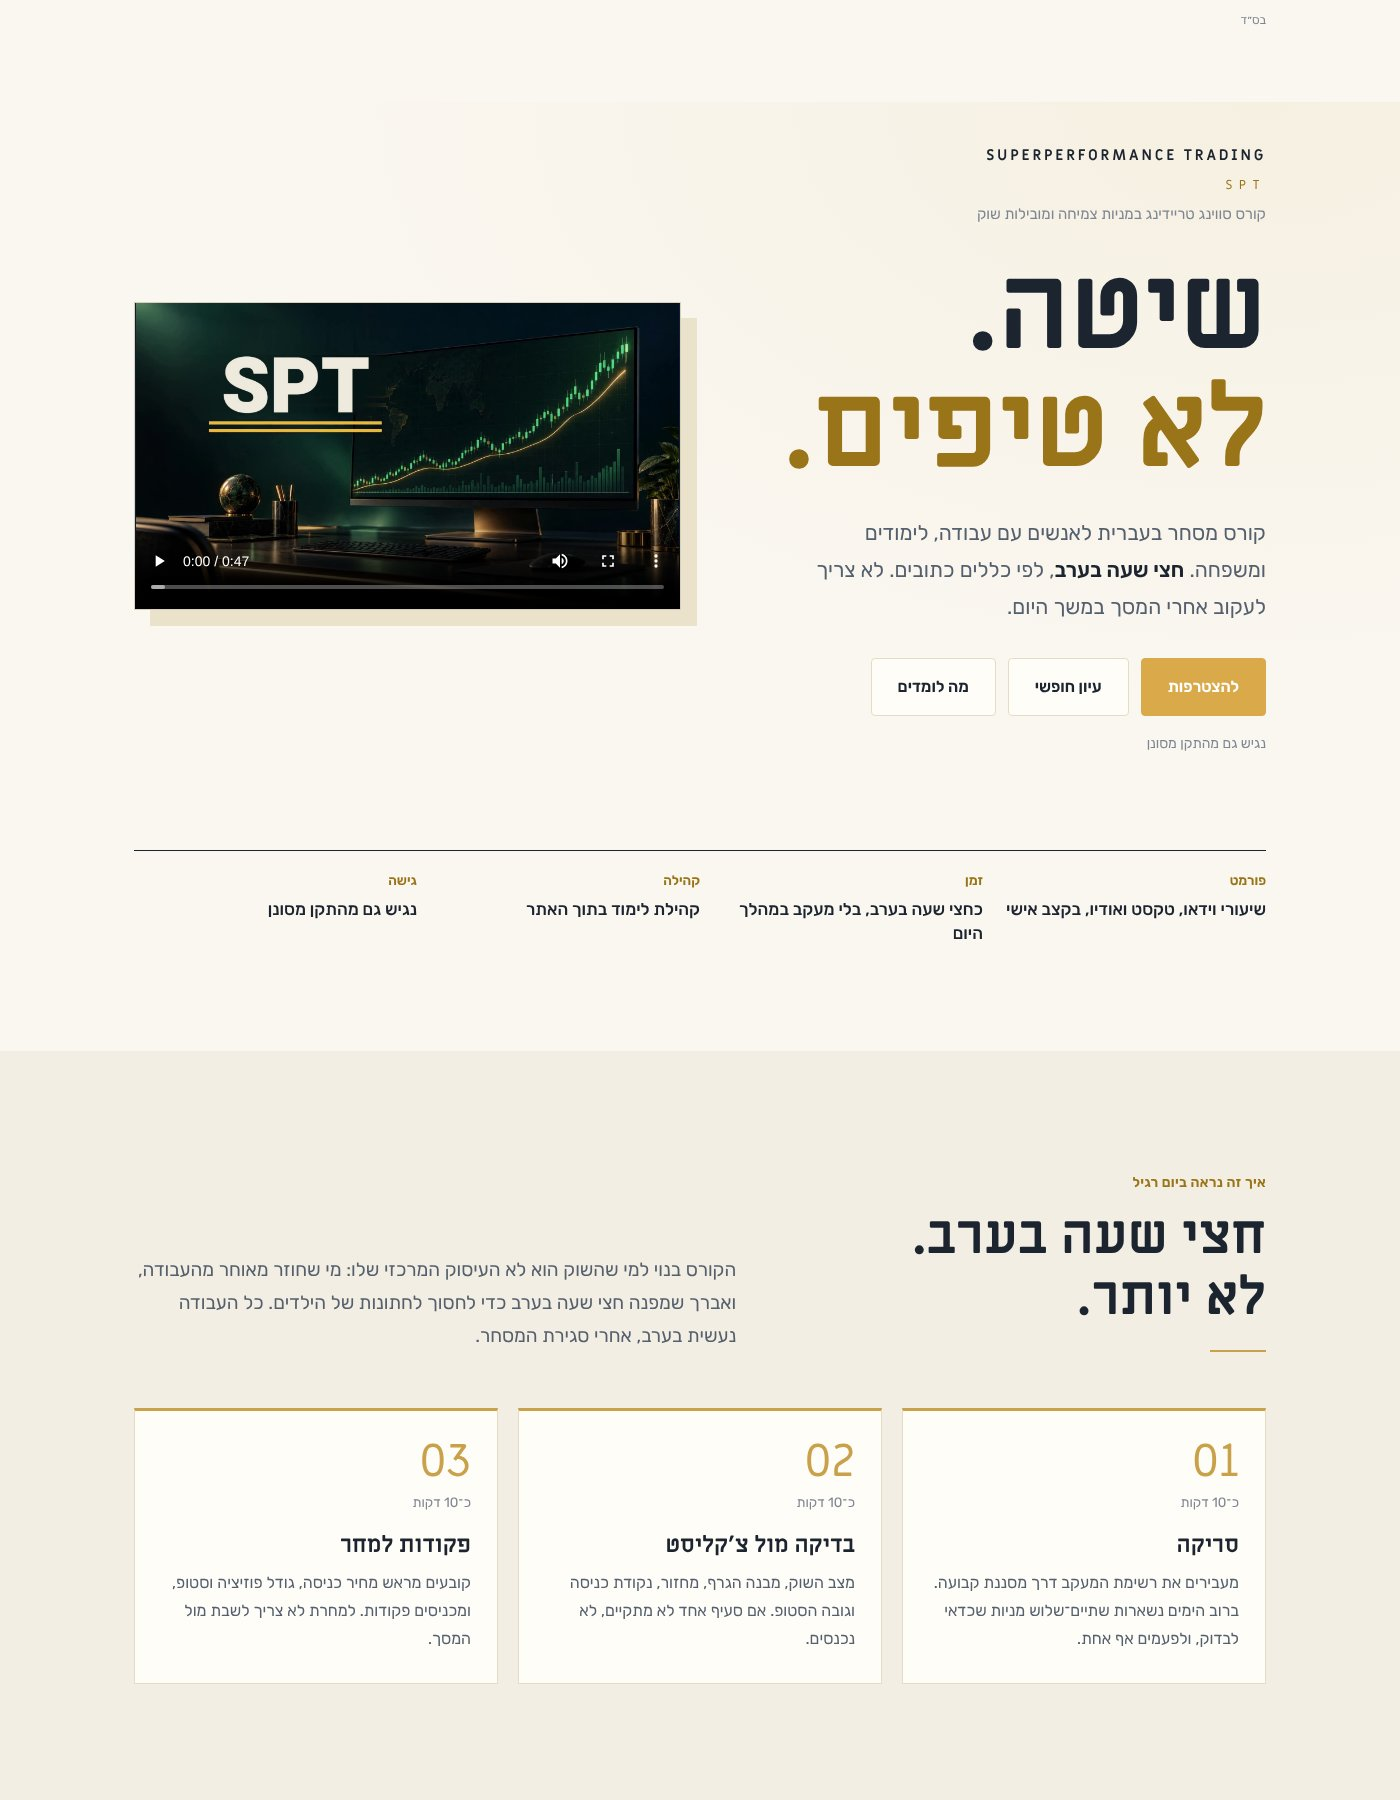
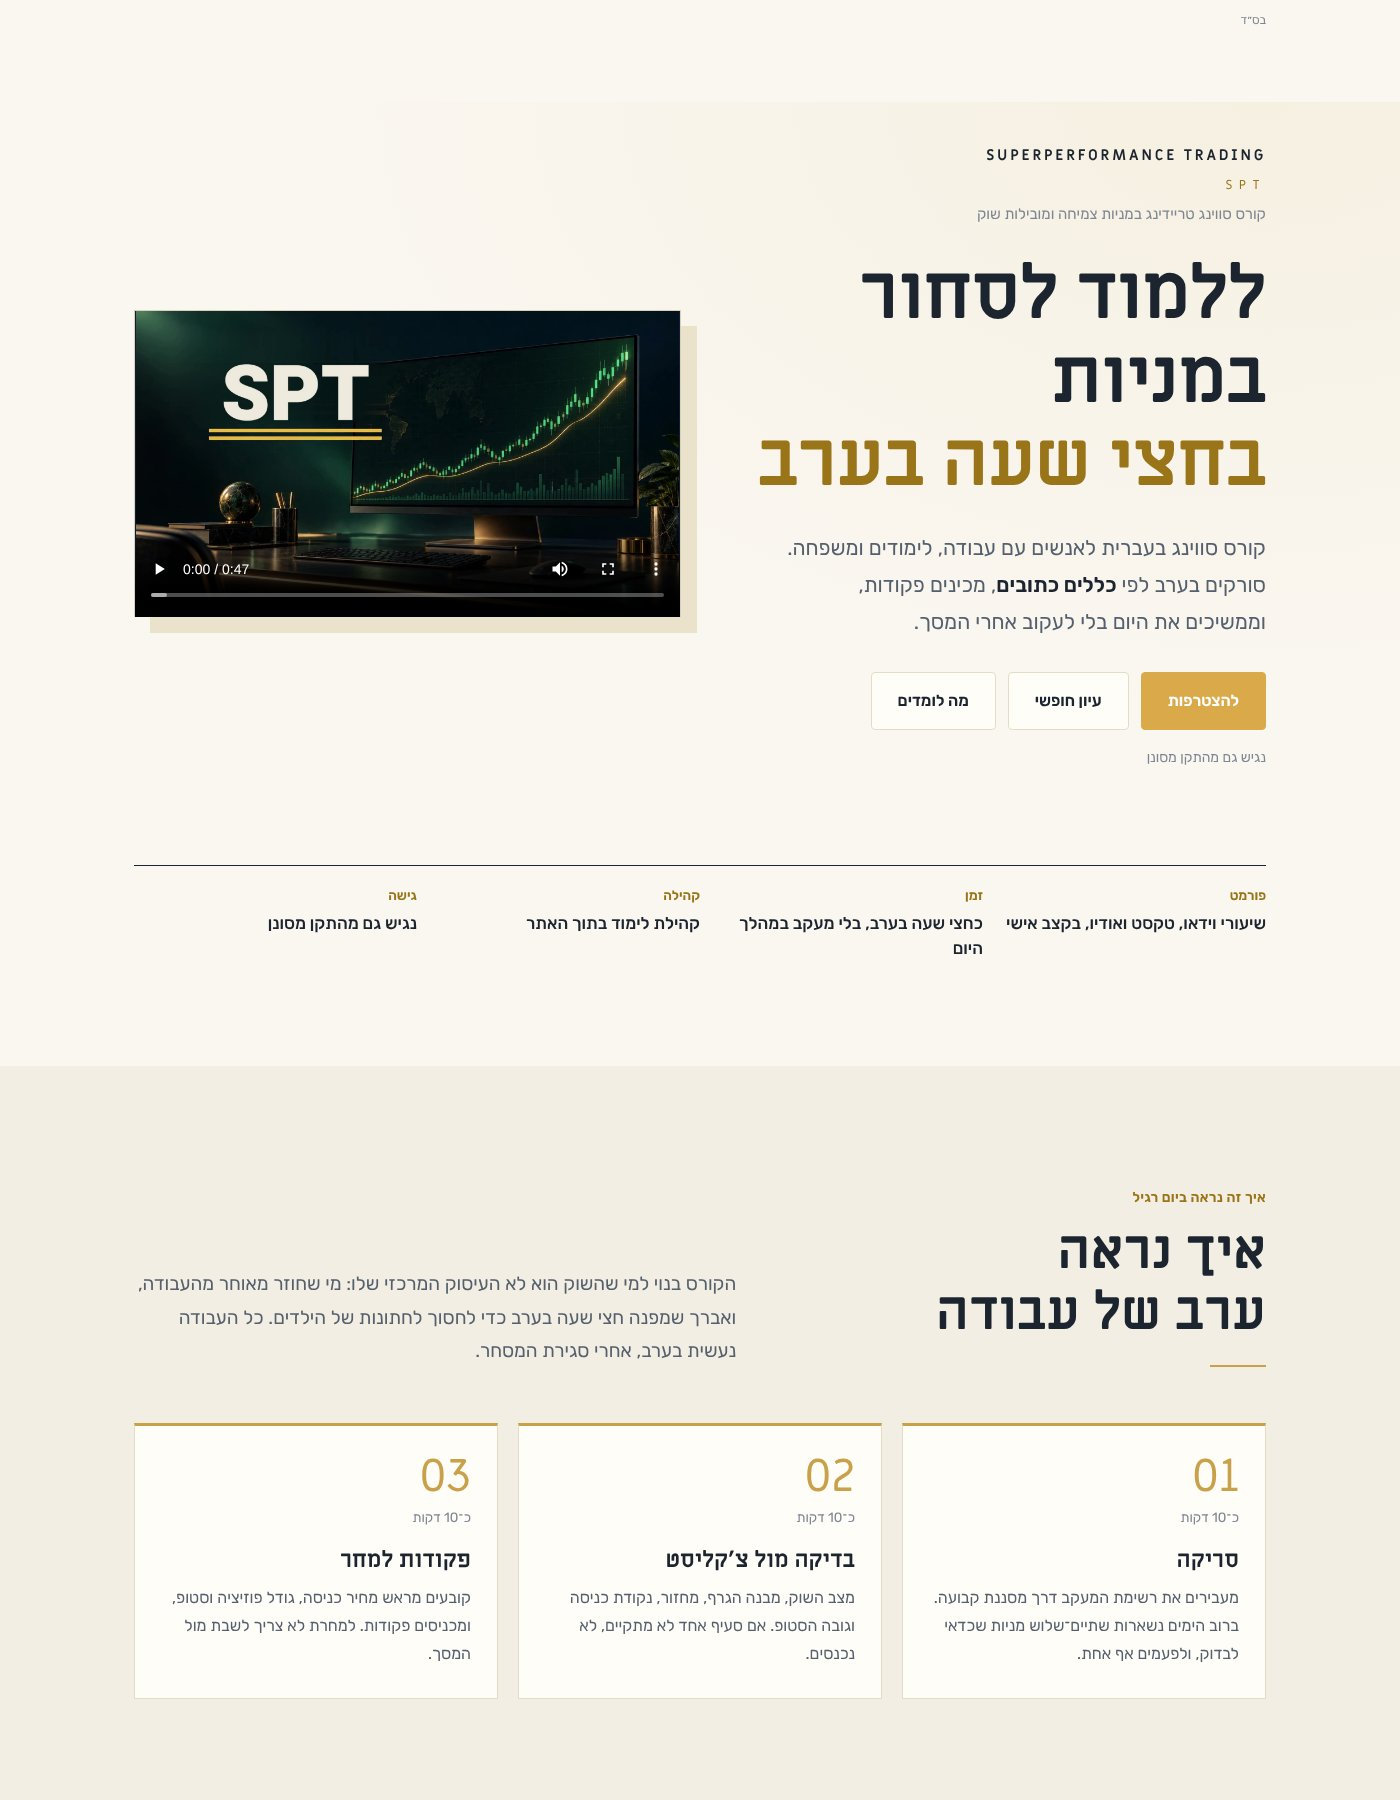
SPT redesign: replace slogan-style headlines with plain wording
Claude-Session: https://claude.ai/code/session_017BqqKpycroxVnNZMTej3bC

diff --git a/spt-redesign/index.html b/spt-redesign/index.html
@@ -83,7 +83,7 @@ section{padding-block:clamp(72px,10vw,120px)}
 .brand .latin{font-size:15px;color:var(--ink);font-weight:700}
 .brand .spt{display:inline-block;font-family:var(--display);font-size:13px;letter-spacing:.5em;color:var(--gold-text);margin-top:6px}
 .brand .sub{font-size:15px;color:var(--ink-3);margin-top:2px}
-.hero h1{font-size:clamp(58px,8.6vw,118px);line-height:1;margin:0 0 26px;letter-spacing:-.01em}
+.hero h1{font-size:clamp(42px,5.6vw,76px);line-height:1.1;margin:0 0 26px;letter-spacing:-.01em}
 .hero h1 em{font-style:normal;color:var(--gold-text)}
 .lede{font-size:clamp(19px,1.8vw,21px);color:var(--ink-2);max-width:36ch;margin-bottom:32px}
 .lede strong{color:var(--ink);font-weight:600}
@@ -297,8 +297,8 @@ footer .legal{padding-top:24px;font-size:13px;color:#8F98A3;max-width:90ch}
           <span class="spt">SPT</span>
           <div class="sub">קורס סווינג טריידינג במניות צמיחה ומובילות שוק</div>
         </div>
-        <h1>שיטה.<br><em>לא טיפים.</em></h1>
-        <p class="lede">קורס מסחר בעברית לאנשים עם עבודה, לימודים ומשפחה. <strong>חצי שעה בערב</strong>, לפי כללים כתובים. לא צריך לעקוב אחרי המסך במשך היום.</p>
+        <h1>ללמוד לסחור במניות<br><em>בחצי שעה בערב</em></h1>
+        <p class="lede">קורס סווינג בעברית לאנשים עם עבודה, לימודים ומשפחה. סורקים בערב לפי <strong>כללים כתובים</strong>, מכינים פקודות, וממשיכים את היום בלי לעקוב אחרי המסך.</p>
         <div class="cta-row">
           <a class="btn btn-gold" href="https://spt-trading.com/subscribe">להצטרפות</a>
           <a class="btn" href="https://spt-trading.com/lessons/32">עיון חופשי</a>
@@ -328,7 +328,7 @@ footer .legal{padding-top:24px;font-size:13px;color:#8F98A3;max-width:90ch}
     <div class="sec-head">
       <div>
         <div class="eyebrow">איך זה נראה ביום רגיל</div>
-        <h2>חצי שעה בערב.<br>לא יותר.</h2>
+        <h2>איך נראה<br>ערב של עבודה</h2>
         <div class="rule"></div>
       </div>
       <p>הקורס בנוי למי שהשוק הוא לא העיסוק המרכזי שלו: מי שחוזר מאוחר מהעבודה, ואברך שמפנה חצי שעה בערב כדי לחסוך לחתונות של הילדים. כל העבודה נעשית בערב, אחרי סגירת המסחר.</p>
@@ -358,8 +358,8 @@ footer .legal{padding-top:24px;font-size:13px;color:#8F98A3;max-width:90ch}
 <section id="community">
   <div class="wrap about">
     <div>
-      <div class="eyebrow">קהילת המסחר</div>
-      <h2 style="margin-top:12px">ולא לבד.</h2>
+      <div class="eyebrow">אחרי הקורס</div>
+      <h2 style="margin-top:12px">קהילת המסחר</h2>
       <div class="rule"></div>
     </div>
     <div class="body">
@@ -376,7 +376,7 @@ footer .legal{padding-top:24px;font-size:13px;color:#8F98A3;max-width:90ch}
     <div class="sec-head">
       <div>
         <div class="eyebrow">מאיפה השיטה מגיעה</div>
-        <h2>לא המצאנו אותה.</h2>
+        <h2>מאה שנה של<br>אותם כללים</h2>
         <div class="rule"></div>
       </div>
       <p>במשך מאה שנה, סוחרים בתקופות ובשווקים שונים הגיעו לאותם כללים, בלי שהכירו זה את זה. הקורס מסדר את העבודה שלהם לפי סדר, מהבסיס ועד הביצוע.</p>
@@ -478,7 +478,7 @@ footer .legal{padding-top:24px;font-size:13px;color:#8F98A3;max-width:90ch}
       <div class="stage">
         <div class="n">4</div>
         <div><h3>משמעת ומיינדסט</h3><span class="q">איך לא לקלקל הכל?</span></div>
-        <div class="body"><p>גודל פוזיציה, סטופ לוס, מה עושים אחרי הפסד ואיך לא לרדוף אחרי מניה שכבר ברחה. הרבה קורסים מדלגים על השלב הזה, ובלעדיו שלושת הקודמים לא מחזיקים. סבלנות היא כלי מסחר, לא תכונת אופי.</p></div>
+        <div class="body"><p>גודל פוזיציה, סטופ לוס, מה עושים אחרי הפסד ואיך לא לרדוף אחרי מניה שכבר ברחה. הרבה קורסים מדלגים על השלב הזה, ובלעדיו שלושת הקודמים לא מחזיקים. ולמה סבלנות היא חלק מהשיטה כמו כל כלל אחר.</p></div>
       </div>
     </div>
   </div>
@@ -596,7 +596,7 @@ footer .legal{padding-top:24px;font-size:13px;color:#8F98A3;max-width:90ch}
     <div class="body">
       <p>גם אנחנו התחלנו עם ערימה של שיטות, הסברים והבטחות, ובלי דרך ברורה. לקח זמן להבין שרוב מה שנשמע משכנע לא עונה על מה שסוחר צריך באמת: לדעת מה הוא עושה, לפי אילו כללים, ומתי לעצור.</p>
       <p>הגענו למסחר במניות צמיחה ומובילות שוק, למדנו אותו מהסוחרים שבנו אותו, ועבדנו עליו עד שראינו שהוא עובד גם אצלנו. את זה אנחנו מלמדים בקורס, שלב אחרי שלב.</p>
-      <p>המטרה היא שתצאו עם דרך עבודה מסודרת, לא עם עוד רשימת מושגים. ובקהילה אנחנו ממשיכים ללוות גם אחרי שהשיעורים נגמרים.</p>
+      <p>המטרה היא שתצאו עם דרך עבודה מסודרת שאתם מבינים מההתחלה ועד הסוף. ובקהילה אנחנו ממשיכים ללוות גם אחרי שהשיעורים נגמרים.</p>
     </div>
   </div>
 </section>
